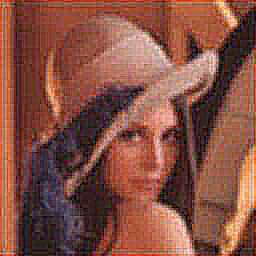
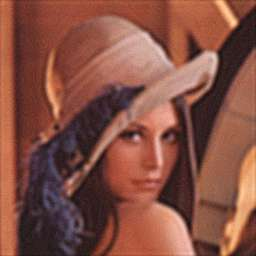
Added Van Cittert deconvolution

diff --git a/docs/Filters.md b/docs/Filters.md
@@ -56,8 +56,8 @@ Van Cittert deconvolution is an iterative algorithm for reversing a convolution 
     require 'hornetseye_xorg'
     include Hornetseye
     SIGMA = 3.0
-    N = 10
-    img = MultiArray.load_ubytergb 'http://www.wedesoft.demon.co.uk/hornetseye-api/images/gaussblur.jpg'
+    N = 20
+    img = MultiArray.load_ubytergb( 'http://www.wedesoft.demon.co.uk/hornetseye-api/images/lena.jpg' ).gauss_blur( SIGMA ).to_ubytergb
     g = img.to_sfloatrgb
     N.times { g = img + g - g.gauss_blur( SIGMA ) }
     g.clip.show
